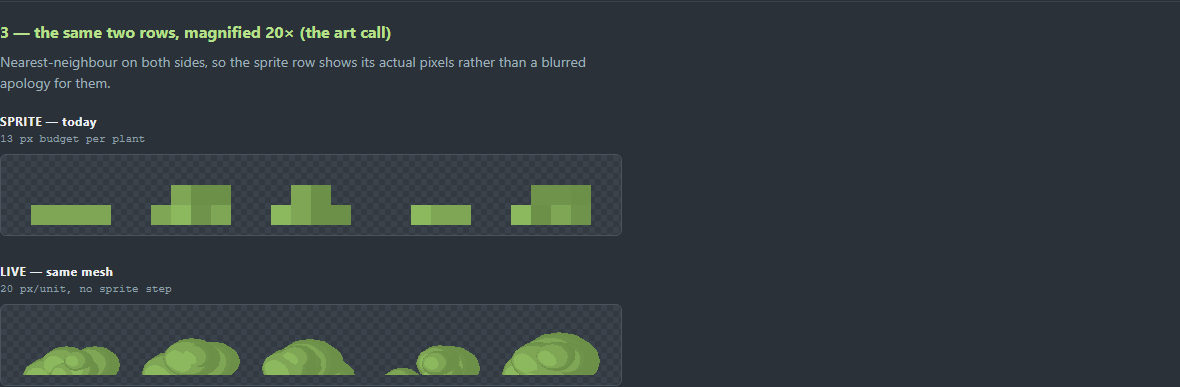
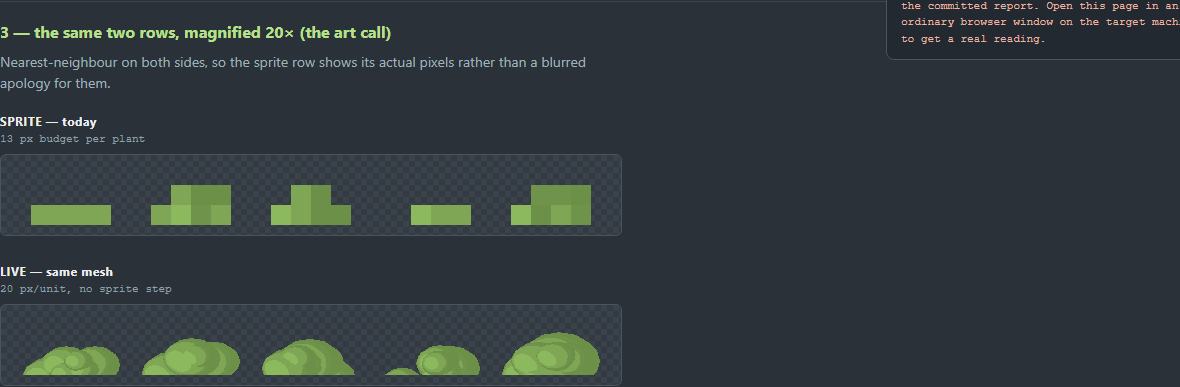
feat(r3f): declare the new files' owner, and stage the D2 probe for the owner's own GPU
Two things the gate and the increment both needed.

OWNERSHIP: `check:ownership-totality` correctly failed the four new source files — they
fell under no declared subtree. Declared to `r3f-world-spike`, the capability that already
owns `world-to-3d.ts` and `ForestWorldCanvas.tsx`, which is the spike this experiment
extends; the capability is claimed on the ledger per ADR-0317 D3.

HARDWARE HUD: question 2 (does a live land clear the ADR-0380 D2 floor?) cannot be answered
by the headless capture, because headless Chromium here rasterises through SwiftShader. The
measurement has to happen where the real GPU is, which means in front of the owner. Rather
than hand back a command and ask for a devtools reading, the page now measures itself and
prints the two things that decide it: the unmasked RENDERER STRING and the frame-time
distribution.

The renderer string is what makes the number safe to quote. If it says SwiftShader the HUD
says so in its own words and tells the reader the timings mean nothing — a frame time with
no provenance is exactly how a software cadence gets quoted as a hardware verdict, and it
is the error this arc has corrected five times. When hardware IS engaged it states the
remaining caveat rather than banking the win: a few dozen static meshes is a NECESSARY
condition for D2, not a sufficient one.

The HUD also now owns the settled signal (it finishes last), so the capture can never
photograph a HUD that is still counting.

Changed region(s): [[0.7627, 0.0, 1.0, 0.062], [0.7627, 0.093, 0.8847, 0.124]]

diff --git a/packages/forest-world-r3f/harness/HardwareHud.tsx b/packages/forest-world-r3f/harness/HardwareHud.tsx
@@ -1,0 +1,122 @@
+// HardwareHud.tsx — the ADR-0380 D2 HARDWARE-FLOOR probe, run in whatever browser is
+// looking at the page (dev-only harness).
+//
+// WHY THIS EXISTS. Question 2 of the live-render experiment is whether a live-rendered land
+// clears the D2 floor: a Snapdragon X Elite X1E80100 with an INTEGRATED Adreno X1-85, no
+// discrete GPU, no CUDA, at 2880x1920. The capture harness CANNOT answer it — headless
+// Chromium on this box rasterises through ANGLE-on-SwiftShader, which is software, so its
+// frame times are the compositor's present cadence and nothing more.
+//
+// The measurement therefore has to happen where the real GPU is, which means it has to
+// happen in front of the owner. Rather than hand back a command and a request to read a
+// devtools panel, the page measures itself and prints the two things that decide it: the
+// UNMASKED RENDERER STRING (which says whether a GPU was engaged at all) and the frame-time
+// distribution. If the renderer string says SwiftShader, the numbers below it mean nothing,
+// and the HUD says so itself rather than leaving that inference to the reader — a frame time
+// with no provenance is exactly how a software cadence gets quoted as a hardware verdict.
+
+import { useEffect, useState } from 'react';
+
+interface Reading {
+  renderer: string;
+  version: string;
+  software: boolean;
+  p50: number;
+  p95: number;
+  worst: number;
+  dpr: number;
+  screen: string;
+}
+
+/** Read the GPU identity WITHOUT keeping a context alive — one throwaway canvas. */
+function readRenderer(): { renderer: string; version: string } {
+  const c = document.createElement('canvas');
+  const gl = (c.getContext('webgl2') ?? c.getContext('webgl')) as WebGLRenderingContext | null;
+  if (!gl) return { renderer: 'NO WEBGL CONTEXT', version: 'none' };
+  const dbg = gl.getExtension('WEBGL_debug_renderer_info');
+  return {
+    renderer: dbg
+      ? String(gl.getParameter(dbg.UNMASKED_RENDERER_WEBGL))
+      : 'unavailable (extension blocked)',
+    version: String(gl.getParameter(gl.VERSION)),
+  };
+}
+
+export function HardwareHud({ onSettled }: { onSettled: () => void }) {
+  const [reading, setReading] = useState<Reading | null>(null);
+
+  useEffect(() => {
+    const { renderer, version } = readRenderer();
+    const deltas: number[] = [];
+    let last = performance.now();
+    let n = 0;
+    const tick = () => {
+      const now = performance.now();
+      deltas.push(now - last);
+      last = now;
+      n++;
+      if (n < 90) {
+        requestAnimationFrame(tick);
+        return;
+      }
+      // Drop the first sample: it spans mount work, not a steady-state frame.
+      const s = deltas.slice(1).sort((a, b) => a - b);
+      setReading({
+        renderer,
+        version,
+        software: /swiftshader|llvmpipe|software|basic render/i.test(renderer),
+        p50: s[Math.floor(s.length * 0.5)] ?? 0,
+        p95: s[Math.floor(s.length * 0.95)] ?? 0,
+        worst: s[s.length - 1] ?? 0,
+        dpr: window.devicePixelRatio,
+        screen: `${window.screen.width}x${window.screen.height}`,
+      });
+      onSettled();
+    };
+    requestAnimationFrame(tick);
+  }, [onSettled]);
+
+  if (!reading) {
+    return (
+      <aside className="hud measuring">
+        <strong>measuring this machine&hellip;</strong>
+      </aside>
+    );
+  }
+
+  return (
+    <aside className={`hud ${reading.software ? 'software' : 'hardware'}`}>
+      <strong>This machine, measured just now</strong>
+      <dl>
+        <dt>GPU</dt>
+        <dd>{reading.renderer}</dd>
+        <dt>WebGL</dt>
+        <dd>{reading.version}</dd>
+        <dt>display</dt>
+        <dd>
+          {reading.screen} at dpr {reading.dpr}
+        </dd>
+        <dt>frame p50</dt>
+        <dd>{reading.p50.toFixed(2)} ms</dd>
+        <dt>frame p95</dt>
+        <dd>{reading.p95.toFixed(2)} ms</dd>
+        <dt>worst</dt>
+        <dd>{reading.worst.toFixed(2)} ms</dd>
+      </dl>
+      {reading.software ? (
+        <p className="verdict bad">
+          SOFTWARE RASTERISER &mdash; the frame times above are the compositor&rsquo;s present cadence
+          and say <strong>nothing</strong> about GPU cost. This is what the headless capture sees, and
+          it is why the ADR-0380 D2 hardware-floor question is not answered by the committed report.
+          Open this page in an ordinary browser window on the target machine to get a real reading.
+        </p>
+      ) : (
+        <p className="verdict ok">
+          Hardware rasteriser engaged, so these frame times are real. Note the honest caveat: this page
+          draws a few dozen small static meshes, not a whole island, so a comfortable number here is a
+          NECESSARY condition for D2 and not a sufficient one.
+        </p>
+      )}
+    </aside>
+  );
+}

diff --git a/packages/forest-world-r3f/harness/compare.html b/packages/forest-world-r3f/harness/compare.html
@@ -105,6 +105,56 @@
         width: 110px;
         flex: none;
       }
+      .hud {
+        position: fixed;
+        top: 14px;
+        right: 14px;
+        z-index: 10;
+        width: 300px;
+        background: #232930;
+        border: 1px solid #4a545e;
+        border-radius: 8px;
+        padding: 12px 14px;
+        font: 11px/1.5 ui-monospace, SFMono-Regular, Menlo, monospace;
+      }
+      .hud strong {
+        display: block;
+        color: #eceff1;
+        margin-bottom: 8px;
+        font-size: 11px;
+        letter-spacing: 0.05em;
+        text-transform: uppercase;
+      }
+      .hud dl {
+        display: grid;
+        grid-template-columns: 74px 1fr;
+        gap: 2px 8px;
+        margin: 0;
+      }
+      .hud dt {
+        color: #8fa0aa;
+      }
+      .hud dd {
+        margin: 0;
+        color: #cfd8dc;
+        overflow-wrap: anywhere;
+      }
+      .hud .verdict {
+        margin: 10px 0 0;
+        padding-top: 9px;
+        border-top: 1px solid #3b434c;
+        font-size: 11px;
+        line-height: 1.5;
+      }
+      .hud .verdict.bad {
+        color: #e8b4a0;
+      }
+      .hud .verdict.ok {
+        color: #b7e08a;
+      }
+      .hud.measuring {
+        color: #8fa0aa;
+      }
       code {
         font: 12px ui-monospace, SFMono-Regular, Menlo, monospace;
         color: #d6e6b8;

diff --git a/packages/forest-world-r3f/harness/compare.tsx b/packages/forest-world-r3f/harness/compare.tsx
@@ -8,6 +8,7 @@
 
 import { createRoot } from 'react-dom/client';
 
+import { HardwareHud } from './HardwareHud.js';
 import { PlantComparison } from './PlantComparison.js';
 
 declare global {
@@ -17,12 +18,21 @@ declare global {
   }
 }
 
-createRoot(document.getElementById('root')!).render(<PlantComparison />);
+function App() {
+  return (
+    <>
+      {/* The D2 hardware probe measures whatever browser is looking at the page, and OWNS
+          the settled signal: it finishes last (90 frames), so gating on it guarantees the
+          panels have long since drawn AND that the capture never photographs a HUD that is
+          still counting. */}
+      <HardwareHud
+        onSettled={() => {
+          window.__stExperimentSettled = true;
+        }}
+      />
+      <PlantComparison />
+    </>
+  );
+}
 
-// Two frames after mount: React has committed and every panel's `useEffect` has run its
-// synchronous `renderer.render`, so the framebuffers hold their final pixels.
-requestAnimationFrame(() => {
-  requestAnimationFrame(() => {
-    window.__stExperimentSettled = true;
-  });
-});
+createRoot(document.getElementById('root')!).render(<App />);
